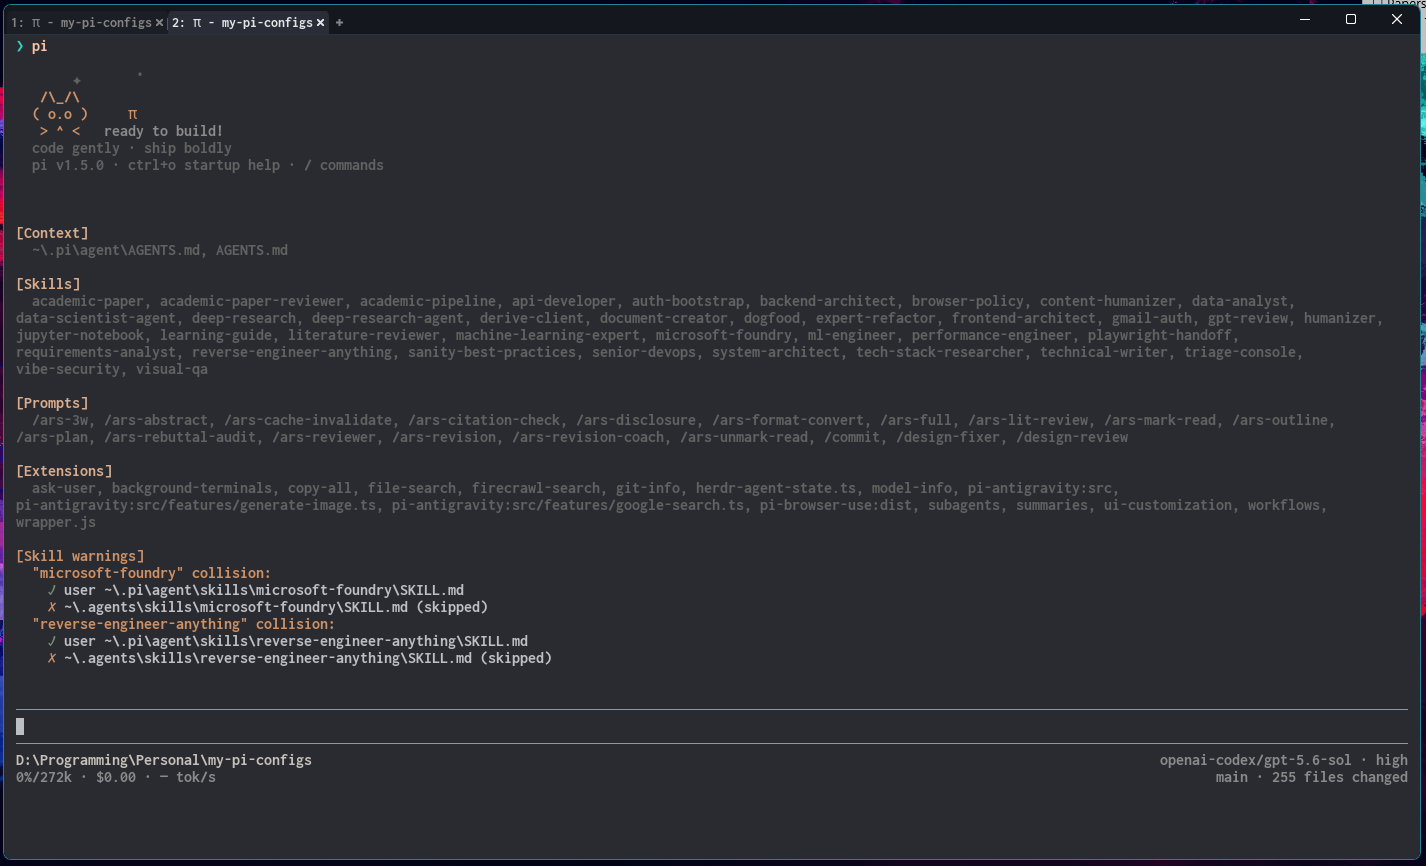
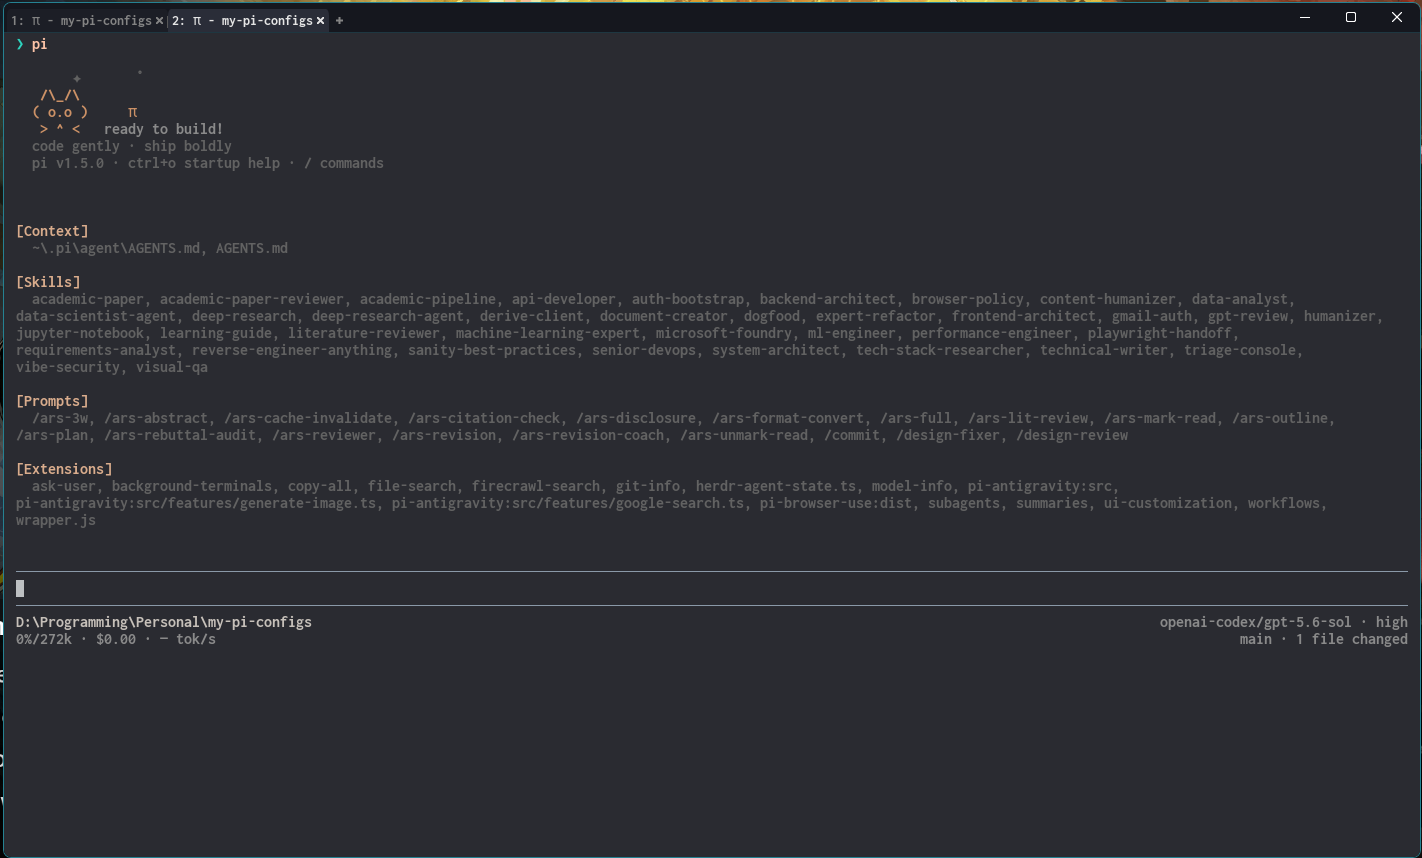
Avoid duplicate auto-discovered skills

diff --git a/SETUP.md b/SETUP.md
@@ -8,7 +8,14 @@ cd ~/.pi/agent/my-pi-setup
 npm install
 
 mkdir -p ~/.pi/agent/skills ~/.pi/agent/themes ~/.pi/agent/prompts
-cp -R skills/. ~/.pi/agent/skills/
+for skill in skills/*; do
+  name=$(basename "$skill")
+  if [ -f "$HOME/.agents/skills/$name/SKILL.md" ]; then
+    printf 'Skipping %s; Pi auto-discovers it from ~/.agents/skills.\n' "$name"
+    continue
+  fi
+  cp -R "$skill" ~/.pi/agent/skills/
+done
 cp -R themes/. ~/.pi/agent/themes/
 cp -R prompts/. ~/.pi/agent/prompts/
 cp config/AGENTS.md ~/.pi/agent/AGENTS.md
